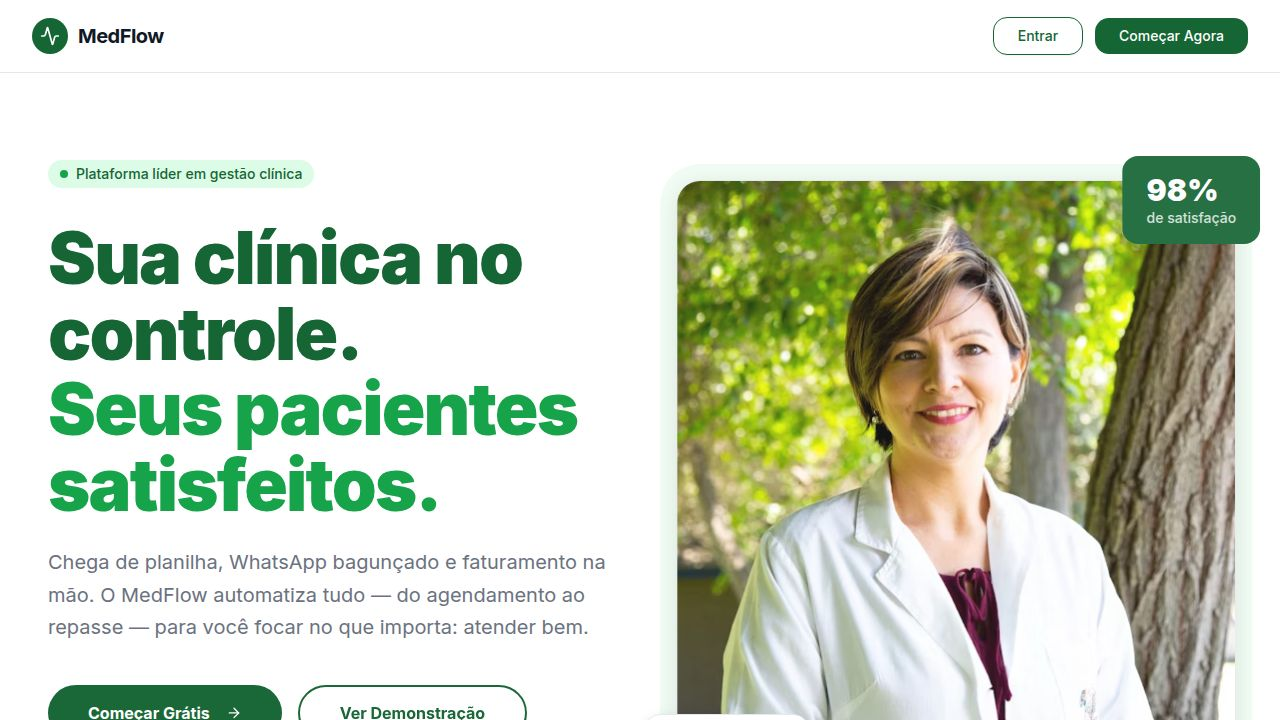
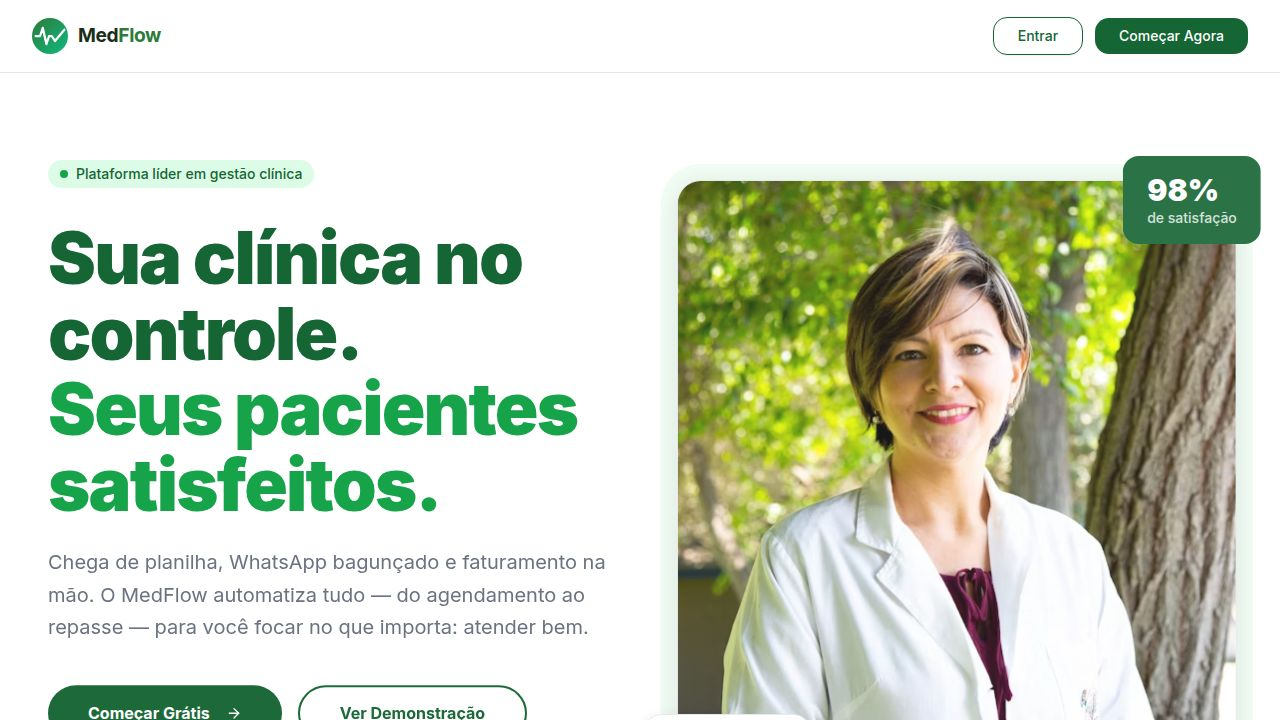
Improve profile picture saving by compressing images and handling storage errors
Update the ClinicSession interface to include logoUrl, implement client-side image compression using Canvas to reduce file size, and add error handling for localStorage save operations.

Replit-Commit-Author: Agent
Replit-Commit-Session-Id: b0b9297e-96b0-453e-aafe-e9097255107e
Replit-Commit-Checkpoint-Type: full_checkpoint
Replit-Commit-Event-Id: ac5d2b3a-53d1-4a01-811f-14ee55d31949
Replit-Commit-Screenshot-Url: https://storage.googleapis.com/screenshot-production-us-central1/d204ec97-8e4a-4d46-a51b-a1816770069e/b0b9297e-96b0-453e-aafe-e9097255107e/EDigrMo
Replit-Helium-Checkpoint-Created: true

diff --git a/artifacts/medflow-landing/src/pages/app/Configuracoes.tsx b/artifacts/medflow-landing/src/pages/app/Configuracoes.tsx
@@ -76,7 +76,7 @@ export default function Configuracoes() {
   const [clinicEmail, setClinicEmail] = useState(session?.email ?? "");
   const [clinicAddress, setClinicAddress] = useState(session?.clinicAddress ?? "");
   const [clinicSlug, setClinicSlug] = useState(session?.clinicSlug ?? "");
-  const [logoPreview, setLogoPreview] = useState<string | null>((session as any)?.logoUrl ?? null);
+  const [logoPreview, setLogoPreview] = useState<string | null>(session?.logoUrl ?? null);
   const [savedClinic, setSavedClinic] = useState(false);
   const [logoError, setLogoError] = useState("");
 
@@ -86,35 +86,65 @@ export default function Configuracoes() {
     logoInputRef.current?.click();
   }
 
-  function handleLogoChange(e: React.ChangeEvent<HTMLInputElement>) {
+  function compressImage(file: File, maxDimension = 300, quality = 0.82): Promise<string> {
+    return new Promise((resolve, reject) => {
+      const reader = new FileReader();
+      reader.onerror = reject;
+      reader.onload = () => {
+        const img = new Image();
+        img.onerror = reject;
+        img.onload = () => {
+          const scale = Math.min(1, maxDimension / Math.max(img.width, img.height));
+          const w = Math.round(img.width * scale);
+          const h = Math.round(img.height * scale);
+          const canvas = document.createElement("canvas");
+          canvas.width = w;
+          canvas.height = h;
+          const ctx = canvas.getContext("2d")!;
+          ctx.drawImage(img, 0, 0, w, h);
+          resolve(canvas.toDataURL("image/jpeg", quality));
+        };
+        img.src = reader.result as string;
+      };
+      reader.readAsDataURL(file);
+    });
+  }
+
+  async function handleLogoChange(e: React.ChangeEvent<HTMLInputElement>) {
     const file = e.target.files?.[0];
     if (!file) return;
 
-    if (file.size > 2 * 1024 * 1024) {
-      setLogoError("Arquivo deve ter no máximo 2 MB.");
+    if (file.size > 5 * 1024 * 1024) {
+      setLogoError("Arquivo deve ter no máximo 5 MB.");
       e.target.value = "";
       return;
     }
     setLogoError("");
-
-    const reader = new FileReader();
-    reader.onload = () => {
-      setLogoPreview(reader.result as string);
-    };
-    reader.readAsDataURL(file);
     e.target.value = "";
+
+    try {
+      const compressed = await compressImage(file);
+      setLogoPreview(compressed);
+    } catch {
+      setLogoError("Erro ao processar a imagem. Tente outro arquivo.");
+    }
   }
 
   function handleSaveClinic() {
     const slugToSave = clinicSlug.trim() || generateSlug(clinicName);
-    saveSession({
-      clinicName: clinicName.trim(),
-      clinicSlug: slugToSave,
-      clinicPhone: clinicPhone.trim(),
-      email: clinicEmail.trim(),
-      clinicAddress: clinicAddress.trim(),
-      logoUrl: logoPreview ?? undefined,
-    } as any);
+    try {
+      saveSession({
+        clinicName: clinicName.trim(),
+        clinicSlug: slugToSave,
+        clinicPhone: clinicPhone.trim(),
+        email: clinicEmail.trim(),
+        clinicAddress: clinicAddress.trim(),
+        logoUrl: logoPreview ?? undefined,
+      });
+    } catch {
+      setLogoError("Erro ao salvar: armazenamento local cheio. Tente uma imagem menor.");
+      return;
+    }
     setClinicSlug(slugToSave);
     setSavedClinic(true);
     setTimeout(() => setSavedClinic(false), 2500);

diff --git a/artifacts/medflow-landing/src/lib/clinic.ts b/artifacts/medflow-landing/src/lib/clinic.ts
@@ -45,6 +45,7 @@ export interface ClinicSession {
   clinicPhone?: string;
   clinicCity?: string;
   clinicState?: string;
+  logoUrl?: string;
 
   // Onboarding
   onboarding_completed: boolean;